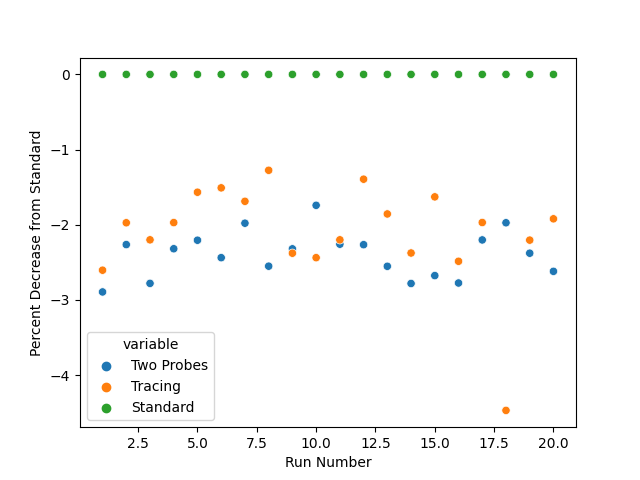
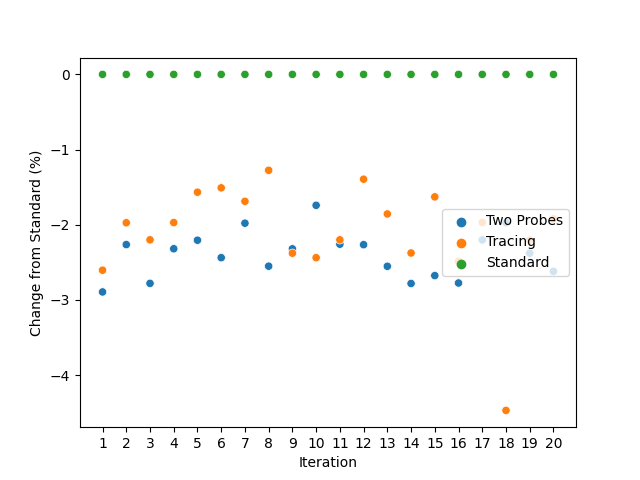
recreate plots

diff --git a/Tracing_experiment/visualizer.py b/Tracing_experiment/visualizer.py
@@ -20,7 +20,9 @@ def main(run_num):
              "Standard": [((standard[i] / standard[i]) - 1) * 100 for i in range(len(standard))]})
         # plot data
         fig = sns.scatterplot(x='Run', y='value', hue='variable', data=pd.melt(data_preproc, ['Run']))
-        fig.set(xlabel='Run Number', ylabel='Percent Change from Standard')
+        fig.set(xlabel='Iteration', ylabel='Change from Standard (%)')
+        fig.set_xticks([i for i in range(1, len(runNums) + 1)])
+        fig.legend(loc='center right')
         fig.get_figure().savefig(f"Figures/figure_{run_num}.png")
         # close the plot
         plt.close()
@@ -31,5 +33,7 @@ if __name__ == "__main__":
     if len(args) > 1:
         run_num = args[1]
     else:
-        run_num = "C2"
-    main(run_num)
+        # run_nums = ["2", "3", "4", "5", "C1", "C2"]
+        run_nums = ["2"]
+        for run_num in run_nums:
+            main(run_num)
